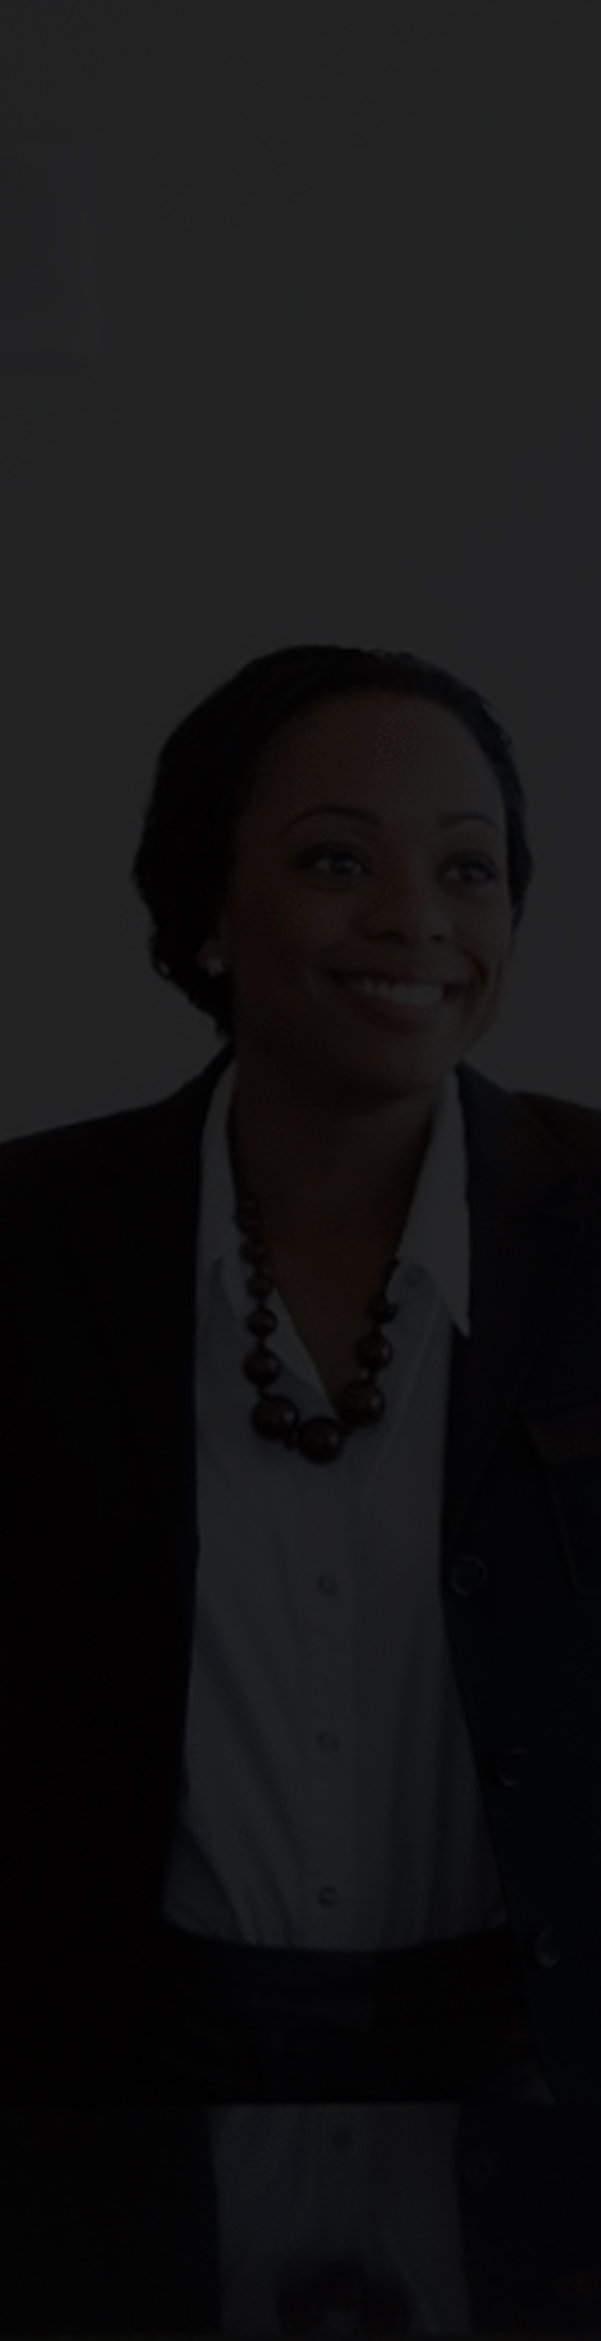
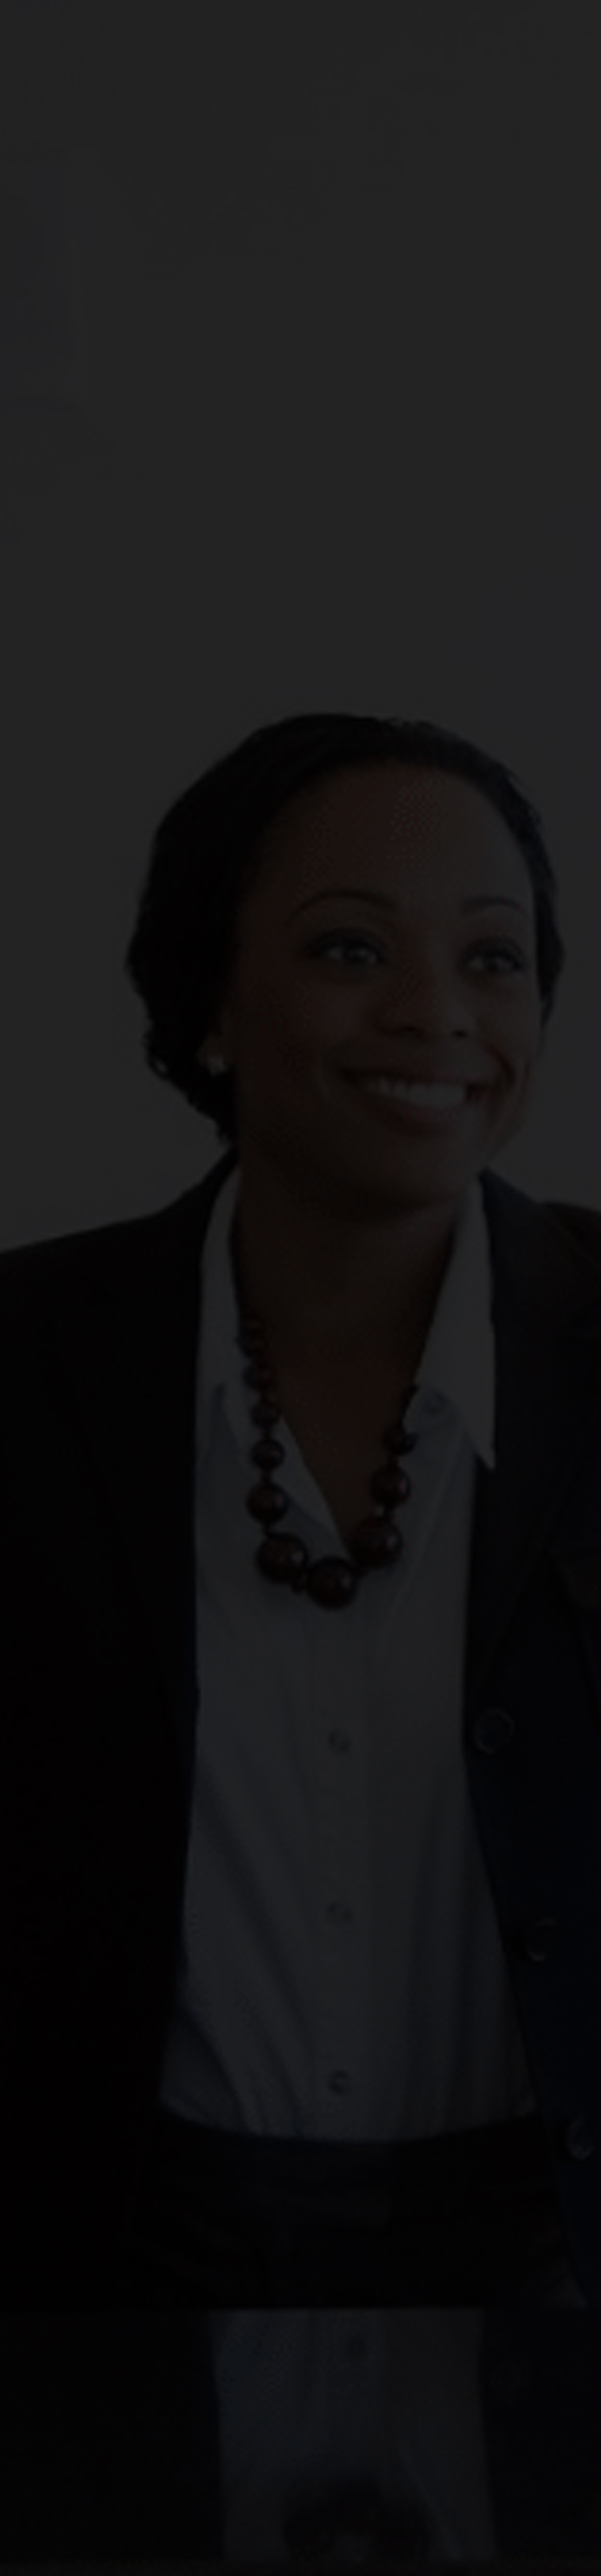
BIU

Changed region(s): [[0.6857, 0.465, 0.8416, 0.682], [0.8104, 0.279, 0.9351, 0.403], [0.6234, 0.527, 0.6857, 0.589]]

diff --git a/css/styles.css b/css/styles.css
@@ -443,7 +443,7 @@ hr {
 }
 
 #services {
-	background: url('../images/jumbotron7.jpg') no-repeat;
+	background: url('../images/jumbotron7.jpg') no-repeat fixed;
 	margin-bottom: 0px;
 	padding-top: 90px;
 }
